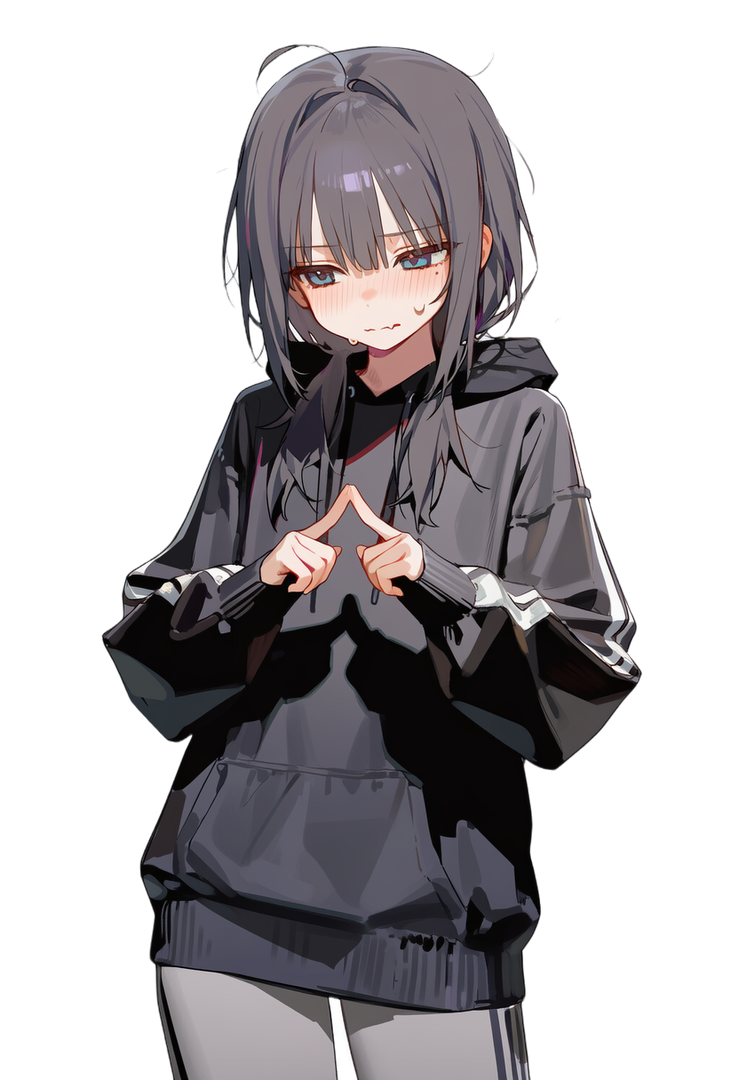
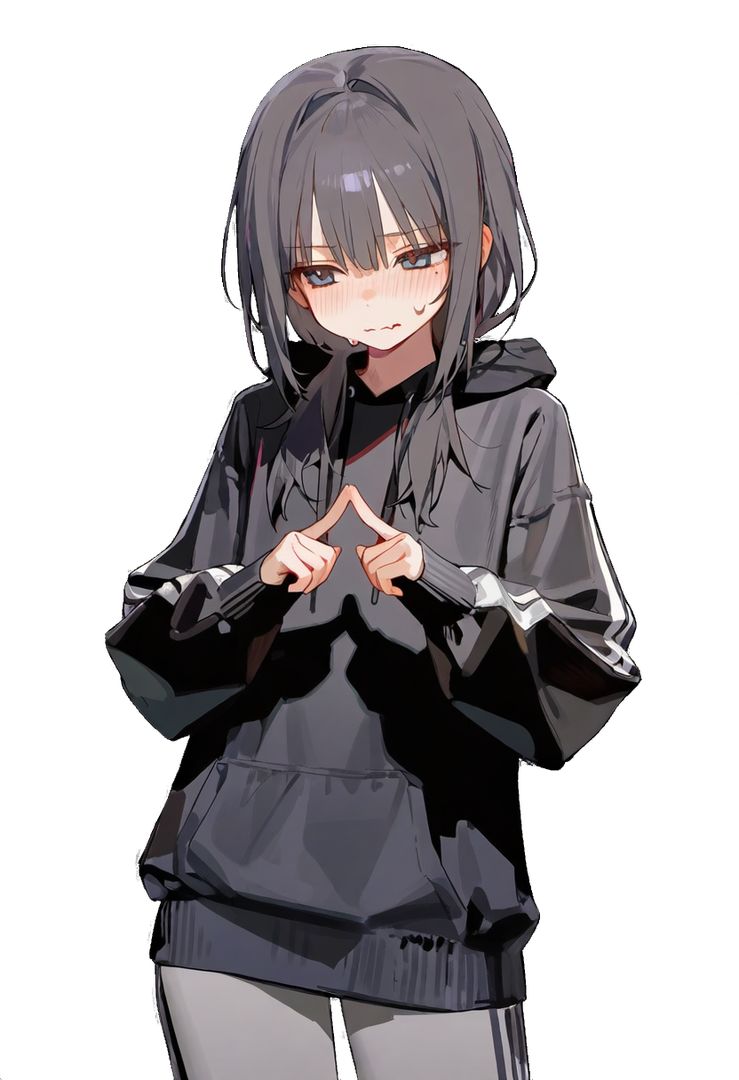
아트: 새 표정 6장 NovelAI Remove BG로 다시 따기 · 포차 이모·약사 NPC 추가
- 표정 6장 배경 제거를 NovelAI Remove BG(generated)로 교체. 하트·오라는 원본에서 되살림(clean.add_fx), flex는 선글라스 보존 위해 masked
- 포장마차(bar) → 이모, 병원·약국(hosp) → 약사 NPC 연결 (npcs.json·locations.json)

diff --git a/tools/art/export.py b/tools/art/export.py
@@ -6,19 +6,20 @@ ROOT = os.path.dirname(os.path.dirname(os.path.dirname(os.path.abspath(__file__)
 A, U = f"{ROOT}/art", f"{ROOT}/Assets/Resources/Art"
 
 import subprocess, tempfile
-from clean import clean_cutout  # 캐릭터: isnet-anime
+from clean import clean_cutout, add_fx  # 캐릭터: isnet-anime
 
 def vision_cutout(src):  # 아이콘: macOS Vision 전경 마스크 (물건은 이쪽이 깔끔)
     out = tempfile.mktemp(suffix=".png")
     subprocess.run(["/tmp/cutout", src, out], check=True, capture_output=True)
     return Image.open(out).convert("RGBA")
 
-FX = {"mirai_love", "mirai_mental", "mirai_yami"}  # 하트·오라 효과가 표정의 핵심 → keep_fx
+FX = {"mirai_love", "mirai_mental", "mirai_yami", "imo"}  # 하트·오라 효과(·이모 국자처럼 Remove BG가 지우는 얇은 소품)를 원본에서 되살림 → keep_fx
 
 def save_char(src, dst):  # 높이 1080, 원본 캔버스 유지(표정 바꿔도 위치 고정)
     # 1순위: NovelAI Director Tools "Remove BG"의 generated 결과(art/nobg/<이름>.png, 장당 65 Anlas) — 가장 깨끗함
     nb = f"{A}/nobg/{os.path.basename(src)[:-5]}.png"
-    im = Image.open(nb).convert("RGBA") if os.path.exists(nb) else clean_cutout(src, keep_fx=os.path.basename(src)[:-5] in FX)
+    fx = os.path.basename(src)[:-5] in FX
+    im = (add_fx(Image.open(nb), src) if fx else Image.open(nb).convert("RGBA")) if os.path.exists(nb) else clean_cutout(src, keep_fx=fx)
     im.resize((round(im.width * 1080 / im.height), 1080), Image.LANCZOS).save(dst, optimize=True)
 
 def save_icon(src, dst):  # 내용만 잘라 정사각 256

diff --git a/tools/art/clean.py b/tools/art/clean.py
@@ -22,5 +22,11 @@ def clean_cutout(src, keep_fx=False):
     out[m] = np.clip((p[m] - (1 - a[m, None]) * bg) / a[m, None], 0, 255)
     return Image.fromarray(np.dstack([out, a * 255]).astype(np.uint8), "RGBA")
 
+def add_fx(char, src):
+    """NovelAI Remove BG 결과(char)는 하트·오라 효과까지 지운다 → 원본(src)에서 배경색과 다른 픽셀을 캐릭터 뒤에 다시 깐다"""
+    fx = clean_cutout(src, keep_fx=True).resize(char.size)
+    fx.alpha_composite(char.convert("RGBA"))
+    return fx
+
 if __name__ == "__main__":
     clean_cutout(sys.argv[1]).save(sys.argv[2])

diff --git a/docs/ART.md b/docs/ART.md
@@ -5,11 +5,11 @@
 - **원본 (git 아님):** 로컬 `art/` (gitignore) + R2 `serin-assets/kw-game/art-src/` (같은 폴더 구조, webp). 다시 받기: `npx wrangler r2 object get serin-assets/kw-game/art-src/<경로> --file <경로> --remote`.
 - 탈락작은 각 폴더 `rejects/`, 고르기 전 후보는 `cg/candidates/`, 첫 시안은 `mirai/raw/`·`mirai/base_candidates/`.
 
-## 목록 (88장)
+## 목록 (90장)
 | 구분 | Assets/Resources/Art | 크기 | 파일 |
 |---|---|---|---|
 | 미래 스탠딩 16 | Characters/Mirai | 높이 1080 PNG | base, excited, mental(멘헤라·지뢰계, 10-22 다시 그림), yami(최상위 멘헤라·스트레스 90+), crying, crying_comic(오열), annoyed, pout(삐짐), shy, flex(선글라스), love(하트눈·큰 수익), shocked, smug, tired, pajama, dizzy(기절) — `mirai_` 접두 |
-| 김사장·NPC 16 | Characters/NPC | 높이 1080 PNG | kim_base, kim_menace, kim_farewell + data/npcs.json 키(broker, dealer, race, lotto, pc, bank, shop, work, taxi, cousin, pckid, hench, suit) |
+| 김사장·NPC 18 | Characters/NPC | 높이 1080 PNG | kim_base, kim_menace, kim_farewell + data/npcs.json 키(broker, dealer, race, lotto, pc, bank, shop, work, taxi, cousin, pckid, hench, suit, imo(포차 이모), pharm(약사)) |
 | 배경 19 | Backgrounds | 1216×832 JPG | room_day, room_night + 장소 키(broker, bank, casino, work, pc, shop, lotto, race, park, bar, hosp) + 알바(cafe, store, ware, mart) + 엔딩(sea, gall) |
 | CG 11 | CG | 1216×832 JPG | opening_visit(김사장 방문), opening_box(유품 상자), ending_clear, ending_bad1(끌려감), ending_bad2(도박), ending_bad3(과로·병원), ending_bad4(멘헤라) + 변형 ending_clear_gamble, ending_clear_rich, ending_bad1_gall, ending_bad2_loop |
 | 유품 17 | Icons/Relics | 256 PNG | data/augments.json AUGS id와 같은 이름 |
@@ -18,7 +18,7 @@
 새 표정·엔딩 그림이 없으면 조용히 예전 그림으로 대체 (View/ArtCatalog.cs `FaceSprite`·`EndingCg`). 아직 안 그린 선택 그림:
 - 엔딩 변형 CG `ending_bad4_sell`·`ending_bad4_run`·`ending_bad1_sea`·`ending_bad2_casino` — 넣으면 자동으로 씀 (없으면 `ending_<kind>`).
 
-isnet-anime는 반짝이·땀방울 같은 효과 그림도 대부분 남긴다. 하트·오라처럼 큰 효과는 지우므로 love·mental·yami는 `clean_cutout(src, keep_fx=True)`(배경색과 다른 픽셀도 남김)로 잘랐다. 10-22에 추가한 스탠딩 6장은 NovelAI Remove BG 대신 이 로컬 방식이다(`art/nobg/`에 없음).
+isnet-anime는 반짝이·땀방울 같은 효과 그림도 대부분 남긴다. 하트·오라처럼 큰 효과는 지우므로 love·mental·yami는 `clean_cutout(src, keep_fx=True)`(배경색과 다른 픽셀도 남김)로 잘랐다. Remove BG의 `generated`는 하트·오라·얇은 소품(국자)을 지우고, 가끔 얼굴을 다시 그린다(flex 선글라스가 사라짐). 그래서 `export.py`의 `FX`(love·mental·yami·imo)는 `generated` 뒤에 원본의 효과 픽셀을 다시 깔고(`clean.add_fx`), flex는 `masked` 결과를 `nobg/`에 둔다. 버린 결과는 `art/nobg/raw/`.
 
 ## 다시 뽑을 때 (NovelAI V4.5 Full)
 - Base Prompt·UC는 사용자 설정(아티스트 믹스) 그대로. 장면은 Character Prompt 칸에 쓴다.
